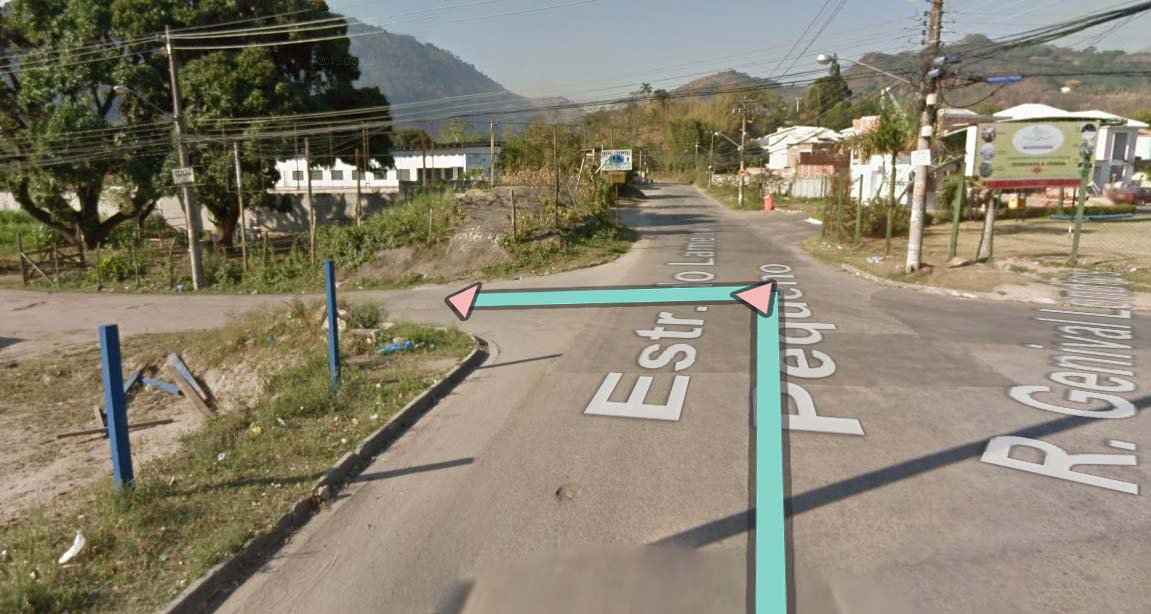
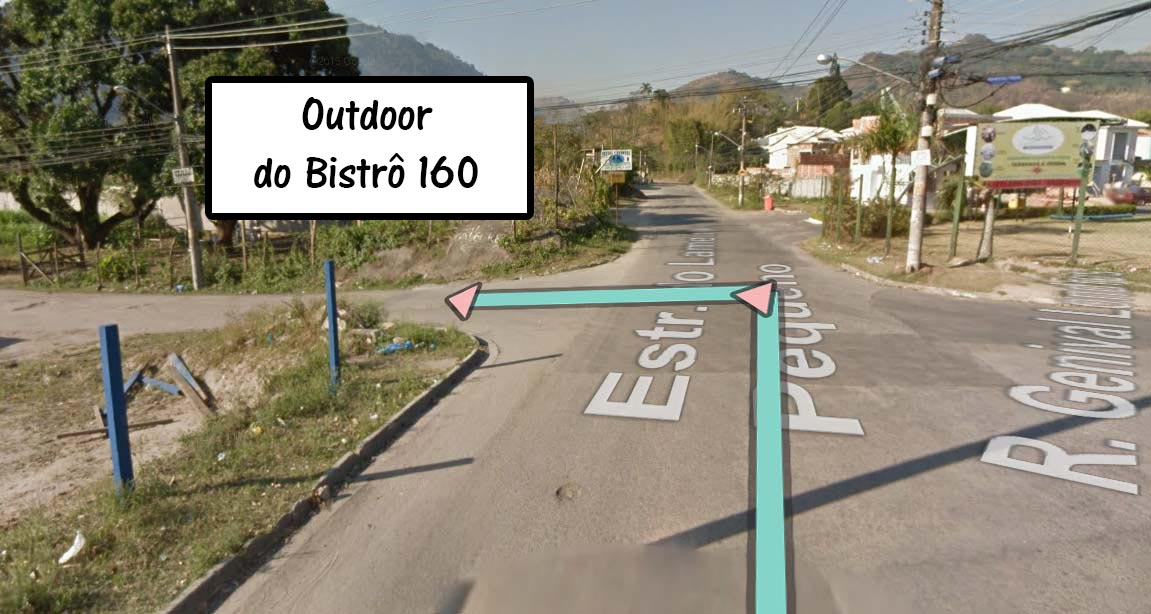
terminando

Changed region(s): [[0.152, 0.1238, 0.4865, 0.3713]]

diff --git a/index.html b/index.html
@@ -85,6 +85,9 @@
                     <li>
                         <a class="page-scroll" href="#tips">Dicas</a>
                     </li>
+                    <li>
+                        <a class="page-scroll" href="#list">lista</a>
+                    </li>
                 </ul>
             </div>
             <!-- /.navbar-collapse -->
@@ -113,7 +116,7 @@
             <div class="row">
                 <div class="col-lg-12 text-center">
                     <h2 class="section-heading">Nós</h2>
-                    <h3 class="section-subheading text-muted">Lorem ipsum dolor sit amet consectetur.</h3>
+                    <h3 class="section-subheading text-muted">Bem-vindos ao site do nosso casamento =)</h3>
                 </div>
             </div>
             <div class="row">
@@ -146,7 +149,7 @@
             </div>
             <div class="row">
                 <div class="col-lg-8 col-lg-offset-2 text-center">
-                    <p class="large text-muted">Lorem ipsum dolor sit amet, consectetur adipisicing elit. Aut eaque, laboriosam veritatis, quos non quis ad perspiciatis, totam corporis ea, alias ut unde.</p>
+                    <p class="large text-muted">Aqui você vai encontrar informações e dicas úteis para aproveitar esse dia tão importante ao nosso lado. Além disso, pode conhecer um pouquinho mais da nossa história, confirmar sua presença, ficar por dentro dos eventos pré-wedding, ver a lista de presentes e etc. Aos poucos vamos alimentando o site com as novidades!</p>
                 </div>
             </div>
         </div>
@@ -157,7 +160,7 @@
             <div class="row">
                 <div class="col-lg-12 text-center">
                     <h2 class="section-heading">NOSSA HISTÓRIA</h2>
-                    <h3 class="section-subheading text-muted">Lorem ipsum dolor sit amet consectetur.</h3>
+                    <h3 class="section-subheading text-muted"></h3>
                 </div>
             </div>
             <div class="row">
@@ -175,7 +178,8 @@
                                 <div class="timeline-body">
                                     <p class="text-muted">Nos conhecemos no Pedro II
                                         <img src="http://i1.rgstatic.net/i/university/0108653df70ea751ee_m.jpg" />
-                                     através da Giulia. Leonardo marcou internamente uma estrelinha
+                                     através da Giulia
+                                     <img src="img/timeline/giulia.jpg" />. Leonardo marcou internamente uma estrelinha
                                     <img src="http://ww2.thedollpalace.com/images/icon/icon_add_favorites.gif" />
                                      na Jéssica</p>
                                 </div>
@@ -191,9 +195,10 @@
                                     <h4 class="subheading"></h4>
                                 </div>
                                 <div class="timeline-body">
-                                    <p class="text-muted">Após meses de flertes no msn
+                                    <p class="text-muted">Depois de meses de flertes no msn
                                         <img src="http://www.d-tool.org/d-tool/img/msn1.jpg"/>
-                                        , acontece o primeiro beijo na casa da Nathália. 12 dias depois, no dia 12/06, começam a namorar. Nos formamos no ensino médio.</p>
+                                        , acontece o primeiro beijo na casa da Nathália
+                                        <img src="img/timeline/nath.jpg" />. Após 12 dias, no dia 12/06, começamos a namorar. Nos formamos no ensino médio.</p>
                                 </div>
                             </div>
                         </li>
@@ -207,7 +212,7 @@
                                     <h4 class="subheading"></h4>
                                 </div>
                                 <div class="timeline-body">
-                                    <p class="text-muted">Começamos a faculdade, enfrentam a brusca mudança na rotina e a Jéssica ainda começa a trabalhar. Pra amenizar a falta de tempo juntos, o Leo sai com a Parati 91
+                                    <p class="text-muted">Começa a faculdade, enfrentamos a brusca mudança na rotina e a Jéssica ainda começa a trabalhar. Pra amenizar a falta de tempo juntos, o Leo sai com a Parati 91
                                     <img src="img/timeline/parati.jpg" />
                                     do Fundão entre uma aula e outra pra almoçar com a Jéssica na Urca e levar ela  pro trabalho no Leblon &lt;3 </p>
                                 </div>
@@ -215,7 +220,7 @@
                         </li>
                         <li class="timeline-inverted">
                             <div class="timeline-image">
-                                <img class="img-circle img-responsive" src="img/timeline/2010.jpg" alt="">
+                                <img class="img-circle img-responsive" src="img/timeline/2009.jpg" alt="">
                             </div>
                             <div class="timeline-panel">
                                 <div class="timeline-heading">
@@ -223,7 +228,7 @@
                                     <h4 class="subheading"></h4>
                                 </div>
                                 <div class="timeline-body">
-                                    <p class="text-muted">Muita coisa acontece, amadurecem juntos, fazem planos e o amor dos dois continua crescendo</p>
+                                    <p class="text-muted">Muita coisa acontece, amadurecemos juntos, fazemos planos e o nosso amor continua crescendo</p>
                                 </div>
                             </div>
                         </li>
@@ -237,7 +242,11 @@
                                     <h4 class="subheading"></h4>
                                 </div>
                                 <div class="timeline-body">
-                                    <p class="text-muted">Fazem 5 anos de namoro, a Jéssica se forma na faculdade e é efetivada na empresa. O Leo começa a trabalhar na Inoa. Primeira viagem séria do casal, pra Buenos Aires, na cia da Cris e do Fernando e realizam também a primeira viagem só deles, pra Teresópolis e a segunda, pra Buzios</p>
+                                    <p class="text-muted">Fazemos 5 anos de namoro, a Jéssica se forma na faculdade e é efetivada na empresa. O Leo começa a trabalhar na Inoa. Primeira viagem séria do casal, pra Buenos Aires, na companhia da Cris
+                                    <img src="img/timeline/cris.jpg" />
+                                    e do Fernando
+                                    <img src="img/timeline/fernando.jpg" />
+                                    e realizamos também nossa primeira viagem só nossa, pra Teresópolis e a segunda, pra Buzios</p>
                                 </div>
                             </div>
                         </li>
@@ -251,7 +260,7 @@
                                     <h4 class="subheading"></h4>
                                 </div>
                                 <div class="timeline-body">
-                                    <p class="text-muted">O Leo se forma, entra no mestrado e vira sócio da Inoa. Um ano cheio de viagens lindas...Gramado, Belo Horizonte, São Paulo (a gente gosta disso!rs)</p>
+                                    <p class="text-muted">O Leo se forma, entra no mestrado e vira sócio da Inoa. Um ano cheio de viagens lindas...Gramado, Belo Horizonte, São Paulo (a gente gosta disso! rs)</p>
                                 </div>
                             </div>
                         </li>
@@ -265,7 +274,15 @@
                                     <h4 class="subheading"></h4>
                                 </div>
                                 <div class="timeline-body">
-                                    <p class="text-muted">Conhecem o Uruguai, voltam a Buzios e a Jéssica começa a trabalhar na Decolar.com....o desejo de se casarem começa a se tornar mais sério</p>
+                                    <p class="text-muted">Conhecemos o Uruguai, o Leo faz uma surpresa no aniversário de 7 anos de namoro, mandando 7 bouquets
+                                    <img src="img/timeline/bouquet.jpg" />
+                                    <img src="img/timeline/bouquet.jpg" />
+                                    <img src="img/timeline/bouquet.jpg" />
+                                    <img src="img/timeline/bouquet.jpg" />
+                                    <img src="img/timeline/bouquet.jpg" />
+                                    <img src="img/timeline/bouquet.jpg" />
+                                    <img src="img/timeline/bouquet.jpg" />
+                                    de rosas pra Jéssica...além disso ela começa a trabalhar na Decolar.com....e o desejo de nos casarmos começa a se tornar mais sério</p>
                                 </div>
                             </div>
                         </li>
@@ -279,7 +296,9 @@
                                     <h4 class="subheading"></h4>
                                 </div>
                                 <div class="timeline-body">
-                                    <p class="text-muted">O Leo começa a desenvolver um produto prórpio e a Jéssica entra na faculdade de Engenharia...realizam uma viagem incrível pra Orlando e Miami, na cia do Daniel</p>
+                                    <p class="text-muted">O Leo começa a desenvolver um produto prórpio e a Jéssica entra na faculdade de Engenharia...realizamos uma viagem incrível pra Orlando e Miami, na companhia do Daniel
+                                    <img src="img/timeline/daniel.jpg" />
+                                    </p>
                                 </div>
                             </div>
                         </li>
@@ -293,7 +312,7 @@
                                     <h4 class="subheading"></h4>
                                 </div>
                                 <div class="timeline-body">
-                                    <p class="text-muted">O Leo pede a Jéssica em casamento no dia 12/01 e ela aceita!!! Marcam a data do casamento: 06/12/15</p>
+                                    <p class="text-muted">O Leo pede a Jéssica em casamento no dia 12/01 e ela aceita!!! Marcamos a data do casamento: 06/12/15</p>
                                 </div>
                             </div>
                         </li>
@@ -308,7 +327,11 @@
             <div class="row">
                 <div class="col-lg-12 text-center">
                     <h2 class="section-heading">Quando</h2>
-                    <h3 class="section-subheading text-muted">A nossa cerimônia será num domingo e, nesse dia a gente te salva de programas clássicos como Faustão, Futebol, Praia, Churrasco, Fantástico e Soneca. Pra isso, basta você salvar o dia do nosso casamento na sua agenda, o que acha?</h3>
+                    <h3 class="section-subheading text-muted">A nossa cerimônia será num domingo e, nesse dia a gente te salva de programas clássicos como Faustão, Futebol, Praia, Churrasco, Fantástico e Soneca.
+                    <div class="margin-top-lg">
+                        Pra isso, basta você salvar o dia do nosso casamento na sua agenda, o que acha?
+                    </div>
+                    </h3>
                 </div>
             </div>
             <div class="row">
@@ -345,7 +368,7 @@
                         Campo Grande, Rio de Janeiro.
                         <a href="http://www.bistro160.com.br/" target="_blank">Bistrô 160</a>
                         <div class="margin-top-lg">
-                            Rua Caminho Cândida Rosa, 160 - CEP
+                            Caminho Cândida Rosa, 160 - CEP
                             23017-385
                         </div>
                     </h3>
@@ -361,7 +384,7 @@
                 <div class="col-lg-12 text-center">
                     <div class="inter-maps">
                         <p>
-                            Infelizemente ainda não se pode confiar em todas as tecnologias quando vamos a lugares remotos como este. Os GPSs sugerem rotas que podem até ser mais curtas, mas são complicadas de seguir. Então sugerimos o caminho seguintes caminhos:
+                            Infelizemente ainda não se pode confiar em todas as tecnologias quando vamos a lugares remotos como este. Os GPSs sugerem rotas que podem até ser mais curtas, mas são complicadas de seguir. Então sugerimos os seguintes caminhos:
                         </p>
                         <a href="https://goo.gl/maps/Y4y06" class="btn btn-default" target="_blank">
                             <i class="fa fa-level-down fa-flip-horizontal"></i>
@@ -372,7 +395,7 @@
                             Pela Av. das Américas
                         </a>
                         <p class="margin-top-xl padding-top-xl">
-                            Existem dois pontos chave no caminho lá por perto, o primeiro é a saída da Estrada do Cabuço para a Estradado Lameirão Pequeno:
+                            Existem dois pontos chave no caminho lá por perto, o primeiro é a saída da Estrada do Cabuço para a Estrada do Lameirão Pequeno:
                         </p>
                     </div>
                     <a href="https://www.google.com.br/maps/@-22.917692,-43.532006,3a,45.9y,120.78h,83.86t/data=!3m4!1e1!3m2!1sbjzSFtbX_Mc-74FlZ8aBkg!2e0" target="_blank">
@@ -383,7 +406,8 @@
             <div class="row">
                 <div class="col-lg-12 text-center">
                     <p class="inter-maps">
-                        Depois de passar por uma pontezinha, o GPS provavelmente vai sugerir virar a esquerda antes da hora. Ignore ele e pegue a próxima esquerda. Hoje em dia existe um outdoor da casa de festas na esquina correta abaixo:
+                        Reparou na placa do Bistrô 160 na árvore?
+                        Já ná Estrada do Lameirão Pequeno, depois de passar por uma pontezinha, o GPS provavelmente vai sugerir virar a esquerda antes da hora. Ignore ele e pegue a próxima esquerda. Hoje em dia existe um outdoor do Bistrô 160 na esquina correta abaixo:
                     </p>
                     <a href="https://www.google.com.br/maps/@-22.915133,-43.518916,3a,75y,40.52h,81.07t/data=!3m4!1e1!3m2!1sZpbQUMqV-p7acLbVVkTzEQ!2e0!6m1!1e1" target="_blank">
                         <img src="img/route/2.jpg" width="100%"/>
@@ -460,6 +484,18 @@
                             </ol>
                         </li>
                     </ul>
+                </div>
+            </div>
+        </div>
+    </section>
+
+
+    <section id="list" class="bg-light-gray">
+        <div class="container">
+            <div class="row">
+                <div class="col-lg-12 text-center">
+                    <h2 class="section-heading">Lista</h2>
+                    <h3 class="section-subheading text-muted">Em breve</h3>
                 </div>
             </div>
         </div>

diff --git a/css/agency.css b/css/agency.css
@@ -890,7 +890,7 @@ a.text-white:hover {
 }
 
 .inter-maps{
-    margin: 100px 0;
+    margin: 80px 0;
 }
 
 .spaced-list li{
